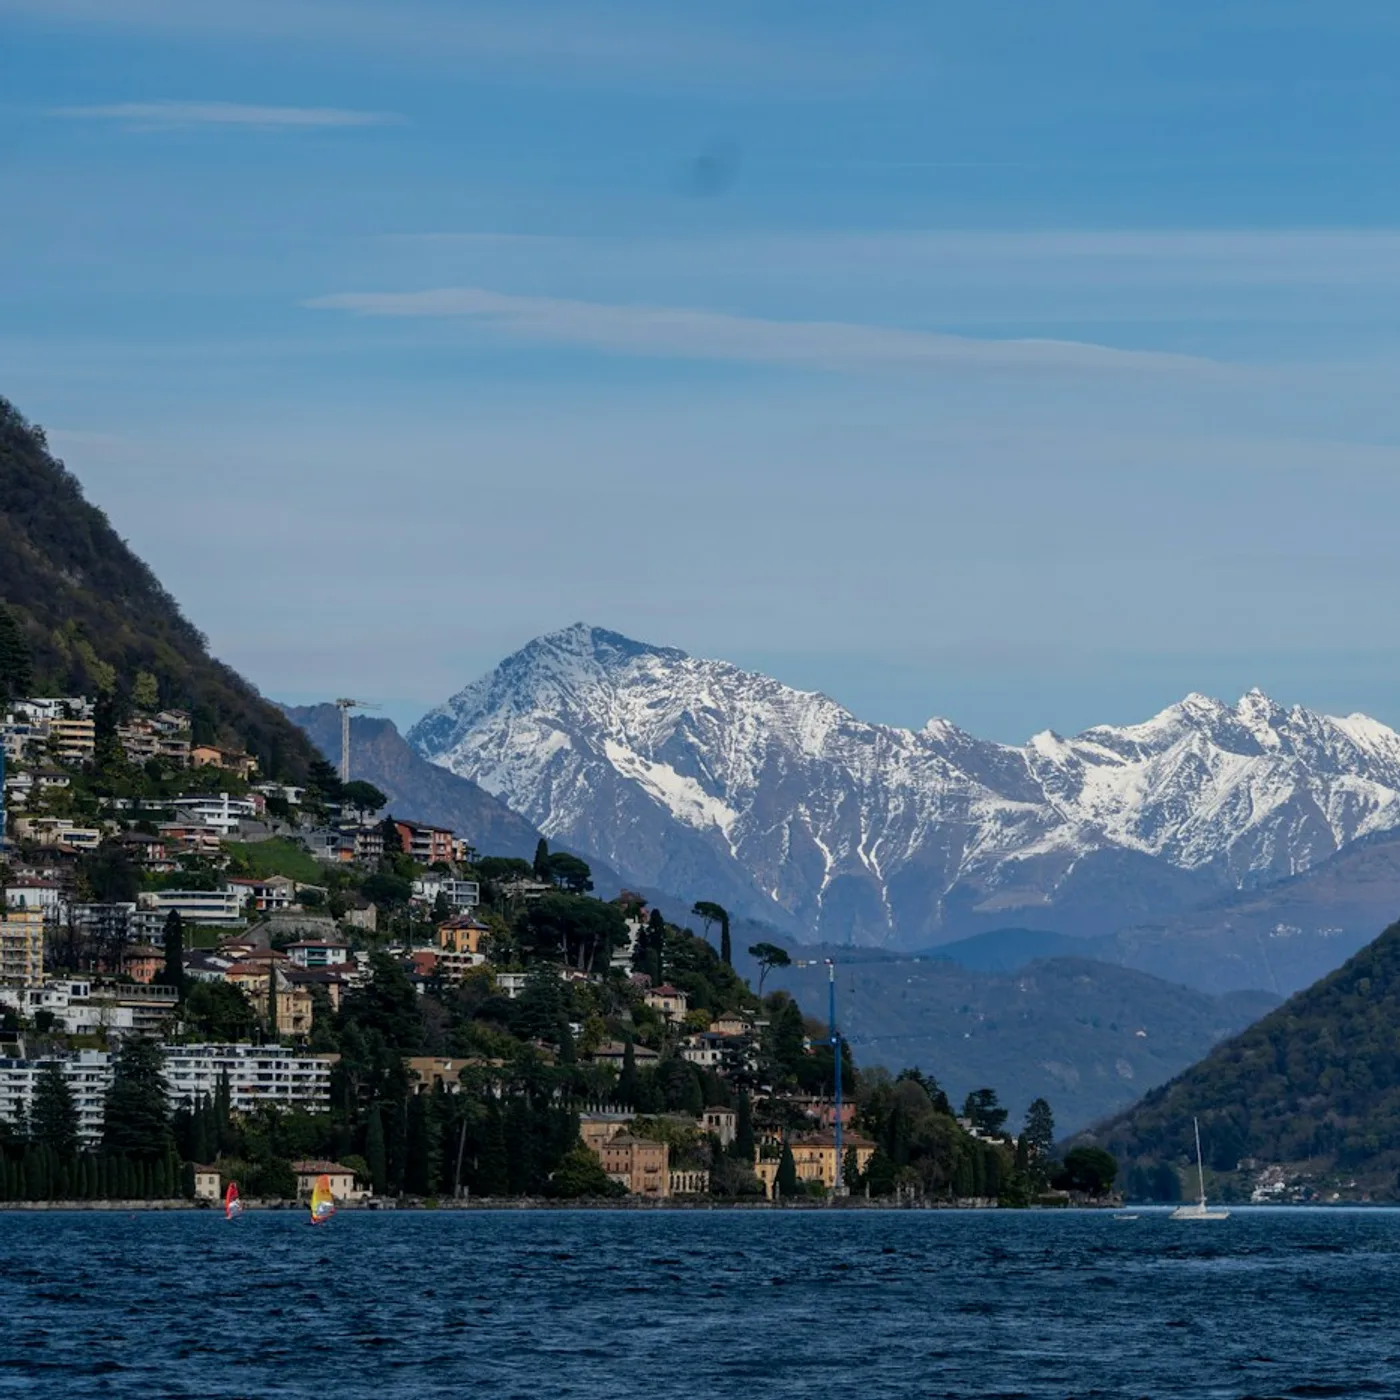
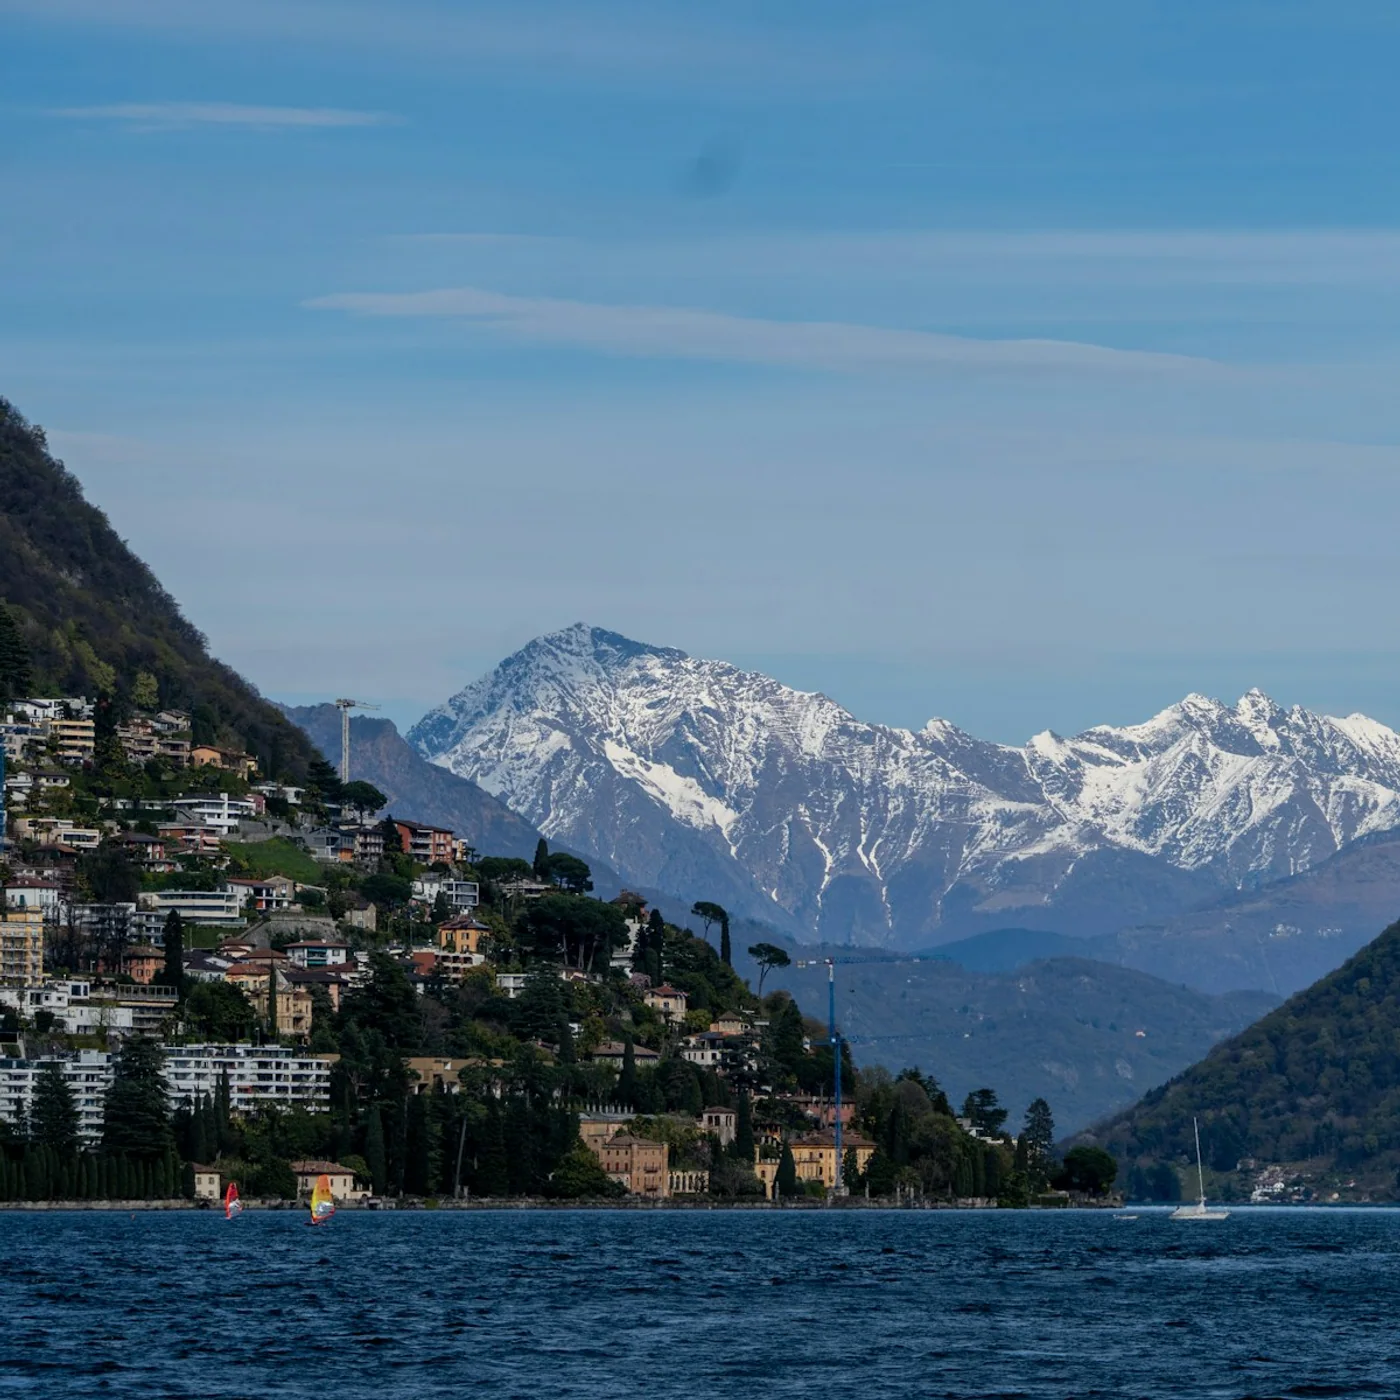
Use fourteen authentic showcase photographs

diff --git a/src/components/showcase/EventPossibilities.tsx b/src/components/showcase/EventPossibilities.tsx
@@ -1,21 +1,27 @@
 import Image from "next/image";
 
 const moments = [
-  { src: "/images/showcase/destination-wedding.webp", label: "Event Management", title: "Luxury destination celebrations" },
-  { src: "/images/showcase/corporate-gala.webp", label: "MICE", title: "Corporate networking experiences" },
-  { src: "/images/showcase/conference.webp", label: "Event Technical Support", title: "Leadership conferences" },
-  { src: "/images/showcase/live-entertainment.webp", label: "Local/Hindi Entertainment", title: "Live entertainment experiences" },
-  { src: "/images/showcase/private-cruise.webp", label: "Private Cruises", title: "Private alpine cruises" },
-  { src: "/images/showcase/incentive-travel.webp", label: "Adventure Experiences", title: "Helicopter mountain adventures" },
-  { src: "/images/showcase/event-design.webp", label: "Decor & Fabrications", title: "Refined event design" },
-  { src: "/images/showcase/technical-production.webp", label: "Sightseeing", title: "Unforgettable scenic journeys" },
+  { src: "/images/showcase/wedding-celebration.webp", label: "Wedding Celebrations", title: "A real wedding celebration" },
+  { src: "/images/showcase/corporate-networking.webp", label: "Corporate Events", title: "Guests networking at a corporate event" },
+  { src: "/images/showcase/conference-audience.webp", label: "Conferences", title: "A live conference audience" },
+  { src: "/images/showcase/concert-crowd.webp", label: "Live Entertainment", title: "A crowd enjoying a live concert" },
+  { src: "/images/showcase/event-decor.webp", label: "Event Styling", title: "A styled event table" },
+  { src: "/images/showcase/event-venue.webp", label: "Venue Transformations", title: "A decorated event venue" },
+  { src: "/images/showcase/conference-production.webp", label: "Technical Production", title: "Conference production in action" },
+  { src: "/images/showcase/helicopter-adventure.webp", label: "Helicopter Experiences", title: "A helicopter mountain experience" },
+  { src: "/images/showcase/luxury-yacht.webp", label: "Private Cruises", title: "A private luxury yacht cruise" },
+  { src: "/images/showcase/live-entertainment.webp", label: "Concert Production", title: "A professionally produced live show" },
+  { src: "/images/showcase/destination-event.webp", label: "Destination Events", title: "A destination wedding reception" },
+  { src: "/images/showcase/private-cruise.webp", label: "Scenic Experiences", title: "A scenic alpine experience" },
+  { src: "/images/showcase/wedding-table.webp", label: "Hospitality & Dining", title: "Outdoor event dining" },
+  { src: "/images/showcase/technical-production.webp", label: "Adventure Experiences", title: "A guided mountain adventure" },
 ] as const;
 
 // Mix bright, dark, people-led and scenic frames across both tracks so each
 // row has an intentional editorial rhythm rather than a single colour mood.
 const rows = [
-  [moments[0], moments[2], moments[5], moments[7]],
-  [moments[4], moments[1], moments[6], moments[3]],
+  [moments[0], moments[2], moments[8], moments[5], moments[3], moments[10], moments[12]],
+  [moments[7], moments[1], moments[9], moments[4], moments[11], moments[6], moments[13]],
 ] as const;
 
 function MomentCard({ moment }: { moment: (typeof moments)[number] }) {

diff --git a/public/images/showcase/ATTRIBUTION.md b/public/images/showcase/ATTRIBUTION.md
@@ -1,12 +1,18 @@
 # Showcase image credits
 
-The showcase photographs are sourced from Unsplash and optimized locally as WebP assets.
+All 14 showcase assets are camera photographs sourced from Unsplash and optimized locally as WebP files.
 
-- `destination-wedding.webp` — Konark Weddings (`AzvGCVHGPCE`)
-- `corporate-gala.webp` — Filip Rankovic Grobgaard (`fKzdMDr6wEo`)
-- `conference.webp` — Carlos Gil (`AMWQIpdsSHY`)
+- `wedding-celebration.webp` — Fotógrafo Samuel Cruz (`wJll9v7WLiU`)
+- `corporate-networking.webp` — Filip Rankovic Grobgaard (`fKzdMDr6wEo`)
+- `conference-audience.webp` — Carlos Gil (`CvG2lnWbm8s`)
+- `concert-crowd.webp` — Konstantin Kitsenuik (`DSvSuQtlDP0`)
+- `wedding-table.webp` — Rhamely (`kbOlsfQ5fPE`)
+- `event-decor.webp` — Jennifer Kalenberg (`9fopoHO4MUk`)
+- `conference-production.webp` — Stem List (`EVgsAbL51Rk`)
+- `helicopter-adventure.webp` — Kevin Schmid (`wkJetggZSdo`)
+- `luxury-yacht.webp` — Nicholas Martinelli (`u-cMU5PYfJs`)
 - `live-entertainment.webp` — Jonathan Ikemura (`z0R4XB25ozI`)
 - `private-cruise.webp` — Valentin Zickner (`reRq6dit2xI`)
-- `incentive-travel.webp` — Slava Auchynnikau (`I1Pzm_z9W98`)
-- `event-design.webp` — Filip Rankovic Grobgaard (`pa4S4aQs40o`)
 - `technical-production.webp` — Daniel Seßler (`P2UnRiIAxSM`)
+- `destination-event.webp` — David Diaz (`ASGOqQl-LJY`)
+- `event-venue.webp` — Unsplash contributor (`65mh04qlcBU`)
